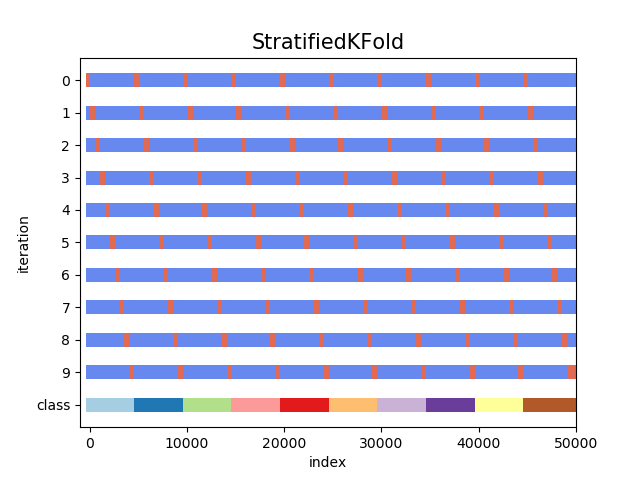
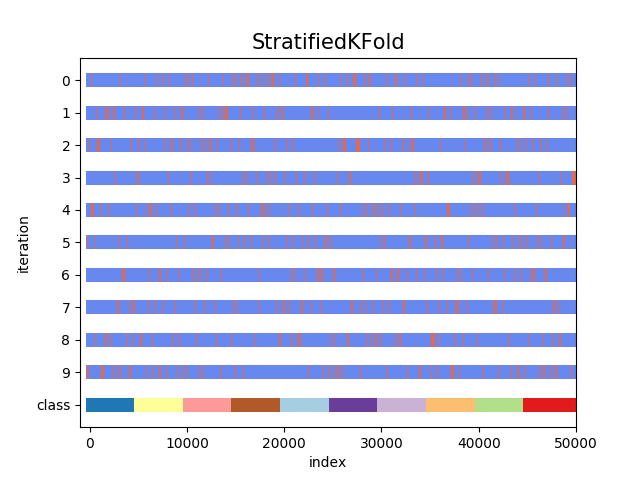
kfoldの可視化-ver3,onehotの追加

diff --git a/kfold-sprit-v3.py b/kfold-sprit-v3.py
@@ -1,0 +1,104 @@
+# coding: utf_8
+
+import os, csv
+from sklearn.model_selection import StratifiedKFold
+from keras.utils import np_utils
+from tqdm import tqdm
+import numpy as np
+import matplotlib.pyplot as plt
+from PIL import Image
+import pickle
+
+def plot(hist_idx, label, n_splits, length, lw=10):
+    """Create a sample plot for indices of a cross-validation object."""
+    fig, ax = plt.subplots()
+    cmap_cv = plt.cm.coolwarm
+    cmap_data = plt.cm.Paired
+    # Generate the training/testing visualizations for each CV split
+    for ii, idx in enumerate(hist_idx):
+        tr, tt = idx
+        indices = np.array([np.nan] * length)
+        indices[tt] = 1
+        indices[tr] = 0
+        # Visualize the results
+        ax.scatter(range(len(indices)), [ii + .5] * len(indices),
+                   c=indices, marker='_', lw=lw, cmap=cmap_cv,
+                   vmin=-.2, vmax=1.2)
+    # Plot the data classes and groups at the end
+    ax.scatter(range(length), [ii + 1.5] * length,
+               c=label, marker='_', lw=lw, cmap=cmap_data)
+    # Formatting
+    y_labels = list(range(n_splits)) + ['class']
+    ax.set(yticks=np.arange(n_splits+2) + .5, yticklabels=y_labels,
+           xlabel='index', ylabel="iteration",
+           ylim=[n_splits+1.2, -.2], xlim=[-1000, 50000])
+    ax.set_title('StratifiedKFold', fontsize=15)
+    return ax
+
+def label_creat():
+    with open('label.csv', newline='') as f:
+        data = csv.reader(f)
+        label = [x for x in data]
+    return dict(label)
+
+def open_image(path):
+    img = Image.open(path)
+    image = np.asarray(img).astype("f4")/255
+    return image
+
+def pickle_save(data, save_path):
+    file_path = os.path.dirname(save_path)
+    if not os.path.isdir(file_path):
+            os.makedirs(file_path)
+    with open(save_path, "wb") as f:
+        pickle.dump(data, f)
+
+def one_hot(label):
+    oh = np_utils.to_categorical(label)
+    return oh
+
+def kfold_sprit(kfold_size, path, saveroot):
+    savepath = saveroot + "/kfold.png"
+    pickle_savepath = "app/data/cross-validation"
+    root = os.path.join(path)
+    label_dict = label_creat()
+    train_image = []
+    train_label = []
+    for label in list(label_dict.keys()):
+        images = os.listdir(os.path.join(root, label))
+        for path in tqdm(images):
+            image = open_image(os.path.join(root, label, path))
+            train_image.append(image)
+            train_label.append(int(label_dict[label]))
+            del image
+    
+    train_image = np.array(train_image)
+    train_label = np.array(train_label)
+
+    #one-hot-label
+    train_oh = np.array(one_hot(label=train_label))
+
+    skf = StratifiedKFold(n_splits=kfold_size, shuffle=True, random_state=1)
+    hist_idx = []
+    for i, idx in enumerate(skf.split(train_image, train_label)):
+        train_idx, val_idx = idx
+        hist_idx.append(idx)
+        train_x = train_image[(train_idx)]
+        train_y = train_oh[(train_idx)]
+        val_x = train_image[(val_idx)]
+        val_y = train_oh[(val_idx)]
+        pickle_save(train_x, pickle_savepath + "/round{}/train_x.pickle".format(i))
+        pickle_save(train_y, pickle_savepath + "/round{}/train_y.pickle".format(i))
+        pickle_save(val_x, pickle_savepath + "/round{}/val_x.pickle".format(i))
+        pickle_save(val_y, pickle_savepath + "/round{}/val_y.pickle".format(i))
+        del train_idx, val_idx, idx
+    fig, ax = plt.subplots()
+    ax = plot(hist_idx=hist_idx, label=train_label, n_splits=kfold_size, length=len(train_image))
+    plt.savefig(savepath)
+    plt.close()
+
+
+DATAROOT = "app/data"
+SAVEROOT = "plot_image"
+kfold_size = 10
+kfold_sprit(kfold_size=kfold_size, path=DATAROOT+"/train", saveroot=SAVEROOT)
